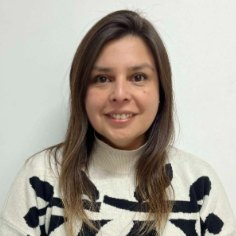
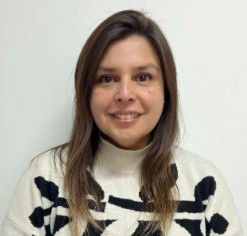
Muestra las fotos de docentes en tarjetas como el diseño original
Claude-Session: https://claude.ai/code/session_01AyQyfNN1zmFyMzNTQ2hEcM

diff --git a/index.html b/index.html
@@ -7,12 +7,12 @@
 <link rel="icon" href="img/huella.png">
 <title>Tu huella deja huella · Día del Profesor</title><style>
 *{box-sizing:border-box}body{margin:0;background:#f0f2f5;color:#171717;font-family:Arial,Helvetica,sans-serif;line-height:1.6}.reviewbar{padding:12px 22px;background:#fff3cd;color:#634900;text-align:center;font-size:13px;border-bottom:1px solid #ebdcaa}.shell{max-width:940px;margin:30px auto;background:white;box-shadow:0 12px 45px #17294310;border-radius:16px;overflow:hidden}.brand{background:#000;color:#fff;display:flex;justify-content:space-between;gap:15px;align-items:center;padding:23px 42px;border-bottom:1px solid #e9edf1;font-size:13px}.brand b{font-size:22px;letter-spacing:-1px}.brand b span{color:#FFB800}.brand div:last-child{text-align:right}.hero{background:#000000;padding:36px 42px 40px;color:white;position:relative}.eyebrow{font-size:11px;letter-spacing:1.7px;font-weight:700}.hero .eyebrow{color:#FFB800}.video{margin:20px 0 24px;background:#191919;aspect-ratio:16/9;border:1px solid #575757;border-radius:12px;display:flex;flex-direction:column;align-items:center;justify-content:center;text-align:center;padding:25px;background-image:radial-gradient(ellipse at 75% 20%,#ffffff0a,transparent 60%)}.play{font-size:26px;display:grid;place-items:center;width:72px;height:72px;border-radius:50%;background:#FFB800;color:#000000;padding-left:4px}.video h2{font-size:27px;margin:18px 0 4px}.video p{margin:0;color:#dddddd}.pending{display:inline-block;margin-top:22px;border:1px solid #777777;border-radius:30px;padding:5px 14px;font-size:12px;color:#eeeeee}.herotext{max-width:710px;font-size:18px;margin:0;color:#eeeeee}.thanks{padding:48px 42px;display:flex;gap:38px;align-items:center}.thanks img{width:142px;height:142px;object-fit:contain;flex-shrink:0}h1{font-size:42px;letter-spacing:-1.6px;line-height:1.1;margin:9px 0 22px}p{margin:0 0 16px}.thanks p:last-child{margin:0}.thanks .eyebrow{color:#755400}.section{padding:38px 42px 44px;background:#f7f8fa;border-top:1px solid #e9edf1}h2{font-size:29px;line-height:1.25;margin:9px 0 15px;letter-spacing:-.5px}.intro{max-width:680px;color:#525252}.categories{display:grid;gap:12px;margin-top:27px}.category{background:white;border:1px solid #dce3eb;border-radius:10px;overflow:hidden}.category summary{display:flex;align-items:flex-start;gap:19px;padding:24px;cursor:pointer;list-style:none}.category summary::-webkit-details-marker{display:none}.category summary:hover{background:#fffdf5}.category summary:focus-visible,summary:focus-visible,a:focus-visible{outline:3px solid #bf8600;outline-offset:-3px}.icon{font-size:26px;background:#f2f5f8;border-radius:10px;min-width:52px;height:52px;display:grid;place-items:center}.category .eyebrow{font-size:9px;color:#686868}h3{font-size:20px;line-height:1.3;margin:3px 0 7px}.description{display:block;color:#525252;font-size:14px}.link{display:inline-block;margin-top:12px;color:#171717;font-weight:700;font-size:13px}.story{padding:22px 25px;border-top:1px solid #e3e8ed;background:#fffcf0;font-size:14px}.story strong{color:#765500}.story p{margin:10px 0 0}.small{font-size:12px;color:#616161}.share{margin:38px 42px;padding:34px;background:#fff5d7;border-left:5px solid #FFB800;border-radius:6px}.share h2{margin-top:0}.cta{display:inline-block;background:#000000;color:white;padding:14px 21px;border-radius:5px;font-weight:700;text-decoration:none;margin:6px 0 9px}.formnote{margin-top:15px;font-size:13px}.formnote summary{cursor:pointer;font-weight:700}.formnote p{margin:10px 0 0}.closing{text-align:center;padding:15px 42px 38px}.closing h2{font-size:27px}.closing p{max-width:600px;margin:0 auto 14px;color:#525252}.closing strong{font-size:21px}footer{padding:22px;background:#000000;color:#eeeeee;text-align:center;font-size:12px}.review{max-width:940px;margin:0 auto 35px;padding:23px 30px;background:white;border:1px dashed #aebac6;border-radius:12px;font-size:14px}.review>summary{cursor:pointer;font-weight:700}.review h3{margin-top:25px;font-size:18px}.review li{margin:8px 0}.review blockquote{margin:14px 0;padding:20px;background:#f5f7fa;border-left:3px solid #FFB800}.review a{color:#171717}@media(max-width:620px){.shell{margin:12px;border-radius:10px}.brand{padding:18px 22px}.brand b{font-size:19px}.hero,.section{padding:27px 22px}.video h2{font-size:21px}.video p{font-size:13px}.video{aspect-ratio:4/3;padding:18px}.play{width:52px;height:52px;font-size:21px}.pending{margin-top:14px}.thanks{padding:32px 22px;gap:18px;align-items:flex-start}.thanks img{width:65px;height:65px;margin-top:9px}h1{font-size:32px}.thanks p{font-size:14px}h2{font-size:25px}.category summary{padding:19px 16px;gap:12px}.icon{min-width:40px;height:40px;font-size:22px}h3{font-size:18px}.share{margin:26px 22px;padding:24px}.closing{padding:8px 22px 30px}.review{margin:12px;padding:20px}.herotext{font-size:16px}}@media print{body{background:white}.shell{box-shadow:none;margin:0}.reviewbar{background:white}.category,.share,.video{break-inside:avoid}.review{break-before:page}}
-.duoc-logo{width:176px;height:auto;display:inline-block}.teacher-grid{display:grid;grid-template-columns:repeat(2,minmax(0,1fr));gap:18px;margin:20px 0}.teacher{background:#fff;border:1px solid #dedede;border-radius:8px;overflow:hidden}.photo{aspect-ratio:4/3;background:#eeeeee;display:flex;flex-direction:column;align-items:center;justify-content:center;gap:4px;color:#595959;border-bottom:4px solid #FFB800;font-size:13px}.photo>span:first-child{font-size:32px;font-weight:300}.teacher-info{padding:18px}.field-label{font-size:9px;letter-spacing:1.5px;color:#686868;font-weight:bold}.teacher h4{font-size:19px;line-height:1.25;margin:4px 0 15px}.teacher .career{font-size:14px;margin:4px 0 15px}.teacher .teacher-desc{font-size:13px;color:#555;margin:0}.story{background:#fafafa}.category[open] summary{border-left:4px solid #FFB800}.brand{border-bottom:4px solid #FFB800}.video{background-image:none}@media(max-width:620px){.teacher-grid{grid-template-columns:1fr}.duoc-logo{width:125px}.brand{font-size:11px}}.story-list{display:grid;gap:16px}.story-card{background:#fff;border:1px solid #dedede;border-left:4px solid #FFB800;border-radius:8px;padding:20px 22px}.story-card .field-label{display:block;line-height:1.5}.story-card h4{font-size:19px;line-height:1.3;margin:4px 0 14px}.people{display:flex;flex-wrap:wrap;gap:14px 18px;margin:0 0 14px}.person{margin:0;display:flex;align-items:center;gap:10px}.person img,.person .initials{width:56px;height:56px;border-radius:50%;object-fit:cover;border:2px solid #FFB800;flex-shrink:0}.person .initials{display:grid;place-items:center;background:#000;color:#FFB800;font-weight:700;font-size:16px;letter-spacing:.5px}.person figcaption{font-size:14px;font-weight:700;line-height:1.25;max-width:180px}.quote{position:relative;padding-left:16px;border-left:2px solid #eee}.quote p{margin:0 0 10px;font-size:15px;color:#333;font-style:italic}.quote p:last-child{margin:0}.achievements{margin:12px 0 0;font-size:14px;color:#444;background:#fff8e1;border-radius:6px;padding:10px 12px}@media(max-width:620px){.story-card{padding:16px}.person img,.person .initials{width:48px;height:48px}.quote p{font-size:14px}}</style></head><body>
+.duoc-logo{width:176px;height:auto;display:inline-block}.teacher-grid{display:grid;grid-template-columns:repeat(2,minmax(0,1fr));gap:18px;margin:20px 0}.teacher{background:#fff;border:1px solid #dedede;border-radius:8px;overflow:hidden}.photo{aspect-ratio:4/3;background:#eeeeee;display:flex;flex-direction:column;align-items:center;justify-content:center;gap:4px;color:#595959;border-bottom:4px solid #FFB800;font-size:13px}.photo>span:first-child{font-size:32px;font-weight:300}.teacher-info{padding:18px}.field-label{font-size:9px;letter-spacing:1.5px;color:#686868;font-weight:bold}.teacher h4{font-size:19px;line-height:1.25;margin:4px 0 15px}.teacher .career{font-size:14px;margin:4px 0 15px}.teacher .teacher-desc{font-size:13px;color:#555;margin:0}.story{background:#fafafa}.category[open] summary{border-left:4px solid #FFB800}.brand{border-bottom:4px solid #FFB800}.video{background-image:none}@media(max-width:620px){.teacher-grid{grid-template-columns:1fr}.duoc-logo{width:125px}.brand{font-size:11px}}.story-list{display:grid;gap:16px}.story-card{background:#fff;border:1px solid #dedede;border-left:4px solid #FFB800;border-radius:8px;padding:20px 22px}.story-card .field-label{display:block;line-height:1.5}.story-card h4{font-size:19px;line-height:1.3;margin:4px 0 14px}.people{display:flex;flex-wrap:wrap;gap:14px 18px;margin:0 0 14px}.person{margin:0;display:flex;align-items:center;gap:10px}.person img,.person .initials{width:56px;height:56px;border-radius:50%;object-fit:cover;border:2px solid #FFB800;flex-shrink:0}.person .initials{display:grid;place-items:center;background:#000;color:#FFB800;font-weight:700;font-size:16px;letter-spacing:.5px}.person figcaption{font-size:14px;font-weight:700;line-height:1.25;max-width:180px}.quote{position:relative;padding-left:16px;border-left:2px solid #eee}.quote p{margin:0 0 10px;font-size:15px;color:#333;font-style:italic}.quote p:last-child{margin:0}.achievements{margin:12px 0 0;font-size:14px;color:#444;background:#fff8e1;border-radius:6px;padding:10px 12px}@media(max-width:620px){.story-card{padding:16px}.person img,.person .initials{width:48px;height:48px}.quote p{font-size:14px}}.people-grid{margin:0 0 16px}.photo.has-img{padding:0;display:block;background:#eee}.photo.has-img img{width:100%;height:100%;object-fit:cover;object-position:center 20%;display:block}.people-grid .teacher-info h4{margin:4px 0 0}</style></head><body>
 <div class="reviewbar"><strong>MAQUETA PARA REVISIÓN DE JEFATURA</strong> · Video, historias y formulario pendientes de incorporación.</div>
 <main class="shell"><header class="brand"><div><img class="duoc-logo" src="img/logo-duoc.png" alt="Duoc UC"><br>Sede San Joaquín</div><div>Estación Docente<br><strong>16 de octubre de 2026</strong></div></header>
 <section class="hero" aria-labelledby="video-title"><div class="eyebrow">DÍA DEL PROFESOR 2026</div><div class="video" role="img" aria-label="Espacio reservado para el video de saludo del director de sede"><span class="play" aria-hidden="true">▶</span><h2 id="video-title">Un saludo para ti</h2><p>Mensaje del director de sede</p><span class="pending">Video por incorporar · vista de muestra</span></div><p class="herotext">Nuestro director de sede te saluda en el Día del Profesor y te invita a compartir las experiencias que dejan huella en nuestra comunidad.</p></section>
 <section class="thanks"><div><div class="eyebrow">HOY QUEREMOS CELEBRARTE</div><h1>Tu huella<br>deja huella</h1><p>Hoy queremos hacer una pausa para decirte algo muy simple: <strong>¡gracias!</strong></p><p>Gracias por cada clase, cada idea, cada conversación y por acompañar a tus estudiantes en su aprendizaje.</p><p>Enseñar es mucho más que compartir conocimientos: es acompañar, inspirar y dejar huella.</p></div><img src="img/huella.png" alt="" aria-hidden="true"></section>
-<section class="section"><div class="eyebrow">NUESTRA COMUNIDAD DOCENTE</div><h2>Historias que queremos destacar</h2><p class="intro">Hoy queremos reconocer a docentes que, desde distintos lugares y de distintas maneras, están dejando una huella especial en nuestra comunidad.</p><p class="small">Selecciona una categoría para conocer a sus docentes y sus experiencias.</p><div class="categories"><details class="category"><summary><span class="icon">💡</span><span><span class="eyebrow">HISTORIAS QUE DEJAN HUELLA · 01</span><h3>Buenas Prácticas Docentes</h3><span class="description">Nuevas maneras de enseñar, crear y ayudar a que nuestros estudiantes aprendan de forma significativa.</span><span class="link">Conocer historias <span aria-hidden="true">↗</span></span></span></summary><div class="story"><strong>Propuesta de docentes · selección por confirmar</strong><div class="teacher-grid"><article class="teacher"><div class="photo" role="img" aria-label="Espacio para fotografía de Gonzalo Valenzuela"><span aria-hidden="true">＋</span><span>Foto del docente</span></div><div class="teacher-info"><span class="field-label">NOMBRE</span><h4>Gonzalo Valenzuela</h4><span class="field-label">CARRERA</span><p class="career">Carrera por confirmar</p><p class="teacher-desc">Breve reseña de su experiencia o reconocimiento.</p></div></article><article class="teacher"><div class="photo" role="img" aria-label="Espacio para fotografía de Freddy Utreras"><span aria-hidden="true">＋</span><span>Foto del docente</span></div><div class="teacher-info"><span class="field-label">NOMBRE</span><h4>Freddy Utreras</h4><span class="field-label">CARRERA</span><p class="career">Carrera por confirmar</p><p class="teacher-desc">Breve reseña de su experiencia o reconocimiento.</p></div></article><article class="teacher"><div class="photo" role="img" aria-label="Espacio para fotografía de María José Salazar"><span aria-hidden="true">＋</span><span>Foto del docente</span></div><div class="teacher-info"><span class="field-label">NOMBRE</span><h4>María José Salazar</h4><span class="field-label">CARRERA</span><p class="career">Carrera por confirmar</p><p class="teacher-desc">Breve reseña de su experiencia o reconocimiento.</p></div></article><article class="teacher"><div class="photo" role="img" aria-label="Espacio para fotografía de M.ª Cristina Rodríguez"><span aria-hidden="true">＋</span><span>Foto del docente</span></div><div class="teacher-info"><span class="field-label">NOMBRE</span><h4>M.ª Cristina Rodríguez</h4><span class="field-label">CARRERA</span><p class="career">Carrera por confirmar</p><p class="teacher-desc">Breve reseña de su experiencia o reconocimiento.</p></div></article><article class="teacher"><div class="photo" role="img" aria-label="Espacio para fotografía de Apostol Dimitropolus"><span aria-hidden="true">＋</span><span>Foto del docente</span></div><div class="teacher-info"><span class="field-label">NOMBRE</span><h4>Apostol Dimitropolus</h4><span class="field-label">CARRERA</span><p class="career">Carrera por confirmar</p><p class="teacher-desc">Breve reseña de su experiencia o reconocimiento.</p></div></article><article class="teacher"><div class="photo" role="img" aria-label="Espacio para fotografía de Franco Sanguinetti"><span aria-hidden="true">＋</span><span>Foto del docente</span></div><div class="teacher-info"><span class="field-label">NOMBRE</span><h4>Franco Sanguinetti</h4><span class="field-label">CARRERA</span><p class="career">Carrera por confirmar</p><p class="teacher-desc">Breve reseña de su experiencia o reconocimiento.</p></div></article><article class="teacher"><div class="photo" role="img" aria-label="Espacio para fotografía de Valeska Gonzalez"><span aria-hidden="true">＋</span><span>Foto del docente</span></div><div class="teacher-info"><span class="field-label">NOMBRE</span><h4>Valeska Gonzalez</h4><span class="field-label">CARRERA</span><p class="career">Carrera por confirmar</p><p class="teacher-desc">Breve reseña de su experiencia o reconocimiento.</p></div></article></div><p class="small">El listado original también menciona «Docentes destacados UADD», sin identificar nombres adicionales.</p><p class="small">Fotografías, nombres, carreras y reseñas sujetos a validación antes de publicar.</p></div></details><details class="category"><summary><span class="icon">🎓</span><span><span class="eyebrow">HISTORIAS QUE DEJAN HUELLA · 02</span><h3>Becados</h3><span class="description">Docentes que siguen aprendiendo y fortaleciendo sus conocimientos a través de becas de estudio.</span><span class="link">Conocer historias <span aria-hidden="true">↗</span></span></span></summary><div class="story"><div class="story-list"><article class="story-card"><span class="field-label">BECA FAD 2026</span><h4>Adjudicación de la Beca de Formación Académica Disciplinar (FAD) 2026</h4><div class="people"><figure class="person"><img src="img/docentes/nancy-bautista.jpg" alt="Fotografía de Nancy Bautista" loading="lazy"><figcaption>Nancy Bautista</figcaption></figure><figure class="person"><img src="img/docentes/jocelin-jofre.jpg" alt="Fotografía de Jocelin Andrea Jofre Seguel" loading="lazy"><figcaption>Jocelin Andrea Jofre Seguel</figcaption></figure></div><div class="quote"><p>Nos adjudicamos la Beca de Formación Académica Disciplinar (FAD) 2026, un reconocimiento otorgado en el marco de la Beca FAD 2026 de Duoc UC, que busca fortalecer la formación continua y la especialización disciplinar de sus docentes. Esta beca nos permitirá profundizar conocimientos y aplicar los aprendizajes en nuestra práctica docente.</p></div></article></div></div></details><details class="category"><summary><span class="icon">🔬</span><span><span class="eyebrow">HISTORIAS QUE DEJAN HUELLA · 03</span><h3>Investigación Aplicada</h3><span class="description">Preguntas e ideas que se convierten en conocimiento y soluciones para nuestra comunidad.</span><span class="link">Conocer historias <span aria-hidden="true">↗</span></span></span></summary><div class="story"><div class="story-list"><article class="story-card"><span class="field-label">PROYECTO DE INVESTIGACIÓN APLICADA</span><h4>“Con tu voz”</h4><div class="people"><figure class="person"><img src="img/docentes/carla-navia.jpg" alt="Fotografía de Carla Navia" loading="lazy"><figcaption>Carla Navia</figcaption></figure><figure class="person"><img src="img/docentes/iris-navarrete.jpg" alt="Fotografía de Iris Navarrete" loading="lazy"><figcaption>Iris Navarrete</figcaption></figure></div><div class="quote"><p>Nuestro proyecto, “Con tu voz”, desarrolla una plataforma web inclusiva para apoyar la vocalización y comunicación de niñas y niños sordos, integrando tecnología, recursos visuales y Lengua de Señas Chilena (LSCh).</p></div><p class="achievements"><strong>Nuestros logros:</strong> nos adjudicamos fondos de DIAIT 2025 y 2026 en Desarrollo Experimental y Escalamiento, y obtuvimos el primer lugar en Póster Mejor Evaluado del Congreso de Investigación I2T Duoc UC 2026.</p></article><article class="story-card"><span class="field-label">PROYECTO DE INNOVACIÓN CORPORATIVA</span><h4>“Networking Inicial”</h4><div class="people"><figure class="person"><img src="img/docentes/elizabeth-valenzuela.jpg" alt="Fotografía de Elizabeth Valenzuela" loading="lazy"><figcaption>Elizabeth Valenzuela</figcaption></figure><figure class="person"><img src="img/docentes/nancy-bautista.jpg" alt="Fotografía de Nancy Bautista" loading="lazy"><figcaption>Nancy Bautista</figcaption></figure></div><div class="quote"><p>Nuestro proyecto, “Networking Inicial”, busca acercar a estudiantes de primer y segundo año al mundo laboral de su carrera, a través de un desafío que les permita vivir durante un día una experiencia en una empresa, conocer su entorno laboral y proyectarse en su futuro profesional.</p></div></article><article class="story-card"><span class="field-label">PROYECTO DE INNOVACIÓN CORPORATIVA</span><h4>Cron App</h4><div class="people"><figure class="person"><span class="initials" aria-hidden="true">MT</span><figcaption>Melisa Tapia</figcaption></figure><figure class="person"><span class="initials" aria-hidden="true">CO</span><figcaption>Claudia Orellana</figcaption></figure><figure class="person"><span class="initials" aria-hidden="true">GV</span><figcaption>Guillermo Villacura</figcaption></figure></div><div class="quote"><p>Nuestro proyecto es Cron App, una plataforma tecnológica orientada al apoyo del seguimiento y gestión de personas con enfermedades crónicas, principalmente Diabetes Mellitus tipo 2 e Hipertensión Arterial.</p></div></article><article class="story-card"><span class="field-label">PROYECTO DE INNOVACIÓN CORPORATIVA</span><h4>SegurApp</h4><div class="people"><figure class="person"><span class="initials" aria-hidden="true">GV</span><figcaption>Guillermo Villacura T.</figcaption></figure></div><div class="quote"><p>Mi proyecto es SegurApp, una plataforma tecnológica orientada a fortalecer la seguridad en la comuna de San Joaquín, donde los vecinos cumplen un rol central al reportar los incidentes que ocurren en la comuna. A su vez, los inspectores municipales son los encargados de atender cada uno de los incidentes reportados por la comunidad.</p></div></article></div></div></details><details class="category"><summary><span class="icon">🌎</span><span><span class="eyebrow">HISTORIAS QUE DEJAN HUELLA · 04</span><h3>Vinculación y Experiencia Profesional</h3><span class="description">Experiencias que conectan el aprendizaje con la industria y el mundo laboral.</span><span class="link">Conocer historias <span aria-hidden="true">↗</span></span></span></summary><div class="story"><strong>Propuesta de docentes · selección por confirmar</strong><div class="teacher-grid"><article class="teacher"><div class="photo" role="img" aria-label="Espacio para fotografía de Nombre del docente"><span aria-hidden="true">＋</span><span>Foto del docente</span></div><div class="teacher-info"><span class="field-label">NOMBRE</span><h4>Nombre del docente</h4><span class="field-label">CARRERA</span><p class="career">Carrera por confirmar</p><p class="teacher-desc">Breve reseña de su experiencia o reconocimiento.</p></div></article></div><p class="small">Fotografías, nombres, carreras y reseñas sujetos a validación antes de publicar.</p></div></details><details class="category"><summary><span class="icon">⭐</span><span><span class="eyebrow">HISTORIAS QUE DEJAN HUELLA · 05</span><h3>Reconocimiento externo</h3><span class="description">Un trabajo docente que también recibe reconocimiento fuera de nuestra institución.</span><span class="link">Conocer historias <span aria-hidden="true">↗</span></span></span></summary><div class="story"><div class="story-list"><article class="story-card"><span class="field-label">RECONOCIMIENTO EXTERNO</span><h4>Incorporación como miembro honorario de Sigma Nursing</h4><div class="people"><figure class="person"><span class="initials" aria-hidden="true">CM</span><figcaption>Claudia Marcela Escobar Osorio</figcaption></figure></div><div class="quote"><p>Fui incorporada como miembro honorario de Sigma Nursing. Recibí este reconocimiento, otorgado por el Capítulo Chileno Alpha Beta Omicron de Sigma Nursing, con sede en la Pontificia Universidad Católica de Chile, por mi trayectoria académica y profesional, y mi compromiso con la excelencia, el liderazgo y el desarrollo de la enfermería.</p></div></article><article class="story-card"><span class="field-label">PARTICIPACIÓN EN EVENTOS ACADÉMICOS</span><h4>Participación en el XXII Congreso Chileno de Neumología Pediátrica</h4><div class="people"><figure class="person"><img src="img/docentes/ana-lorena-moya.jpg" alt="Fotografía de Ana Lorena Moya Isamitt" loading="lazy"><figcaption>Ana Lorena Moya Isamitt</figcaption></figure></div><div class="quote"><p>Como docente y enfermera, participaré en el XXII Congreso Chileno de Neumología Pediátrica, que se realizará del 22 al 24 de octubre de 2026. En esta instancia presentaré el trabajo “Preparémonos juntos para respirar mejor”, aceptado en modalidad e-póster, contribuyendo al intercambio de conocimientos y experiencias en el ámbito de la salud respiratoria pediátrica.</p></div></article></div></div></details></div></section>
+<section class="section"><div class="eyebrow">NUESTRA COMUNIDAD DOCENTE</div><h2>Historias que queremos destacar</h2><p class="intro">Hoy queremos reconocer a docentes que, desde distintos lugares y de distintas maneras, están dejando una huella especial en nuestra comunidad.</p><p class="small">Selecciona una categoría para conocer a sus docentes y sus experiencias.</p><div class="categories"><details class="category"><summary><span class="icon">💡</span><span><span class="eyebrow">HISTORIAS QUE DEJAN HUELLA · 01</span><h3>Buenas Prácticas Docentes</h3><span class="description">Nuevas maneras de enseñar, crear y ayudar a que nuestros estudiantes aprendan de forma significativa.</span><span class="link">Conocer historias <span aria-hidden="true">↗</span></span></span></summary><div class="story"><strong>Propuesta de docentes · selección por confirmar</strong><div class="teacher-grid"><article class="teacher"><div class="photo" role="img" aria-label="Espacio para fotografía de Gonzalo Valenzuela"><span aria-hidden="true">＋</span><span>Foto del docente</span></div><div class="teacher-info"><span class="field-label">NOMBRE</span><h4>Gonzalo Valenzuela</h4><span class="field-label">CARRERA</span><p class="career">Carrera por confirmar</p><p class="teacher-desc">Breve reseña de su experiencia o reconocimiento.</p></div></article><article class="teacher"><div class="photo" role="img" aria-label="Espacio para fotografía de Freddy Utreras"><span aria-hidden="true">＋</span><span>Foto del docente</span></div><div class="teacher-info"><span class="field-label">NOMBRE</span><h4>Freddy Utreras</h4><span class="field-label">CARRERA</span><p class="career">Carrera por confirmar</p><p class="teacher-desc">Breve reseña de su experiencia o reconocimiento.</p></div></article><article class="teacher"><div class="photo" role="img" aria-label="Espacio para fotografía de María José Salazar"><span aria-hidden="true">＋</span><span>Foto del docente</span></div><div class="teacher-info"><span class="field-label">NOMBRE</span><h4>María José Salazar</h4><span class="field-label">CARRERA</span><p class="career">Carrera por confirmar</p><p class="teacher-desc">Breve reseña de su experiencia o reconocimiento.</p></div></article><article class="teacher"><div class="photo" role="img" aria-label="Espacio para fotografía de M.ª Cristina Rodríguez"><span aria-hidden="true">＋</span><span>Foto del docente</span></div><div class="teacher-info"><span class="field-label">NOMBRE</span><h4>M.ª Cristina Rodríguez</h4><span class="field-label">CARRERA</span><p class="career">Carrera por confirmar</p><p class="teacher-desc">Breve reseña de su experiencia o reconocimiento.</p></div></article><article class="teacher"><div class="photo" role="img" aria-label="Espacio para fotografía de Apostol Dimitropolus"><span aria-hidden="true">＋</span><span>Foto del docente</span></div><div class="teacher-info"><span class="field-label">NOMBRE</span><h4>Apostol Dimitropolus</h4><span class="field-label">CARRERA</span><p class="career">Carrera por confirmar</p><p class="teacher-desc">Breve reseña de su experiencia o reconocimiento.</p></div></article><article class="teacher"><div class="photo" role="img" aria-label="Espacio para fotografía de Franco Sanguinetti"><span aria-hidden="true">＋</span><span>Foto del docente</span></div><div class="teacher-info"><span class="field-label">NOMBRE</span><h4>Franco Sanguinetti</h4><span class="field-label">CARRERA</span><p class="career">Carrera por confirmar</p><p class="teacher-desc">Breve reseña de su experiencia o reconocimiento.</p></div></article><article class="teacher"><div class="photo" role="img" aria-label="Espacio para fotografía de Valeska Gonzalez"><span aria-hidden="true">＋</span><span>Foto del docente</span></div><div class="teacher-info"><span class="field-label">NOMBRE</span><h4>Valeska Gonzalez</h4><span class="field-label">CARRERA</span><p class="career">Carrera por confirmar</p><p class="teacher-desc">Breve reseña de su experiencia o reconocimiento.</p></div></article></div><p class="small">El listado original también menciona «Docentes destacados UADD», sin identificar nombres adicionales.</p><p class="small">Fotografías, nombres, carreras y reseñas sujetos a validación antes de publicar.</p></div></details><details class="category"><summary><span class="icon">🎓</span><span><span class="eyebrow">HISTORIAS QUE DEJAN HUELLA · 02</span><h3>Becados</h3><span class="description">Docentes que siguen aprendiendo y fortaleciendo sus conocimientos a través de becas de estudio.</span><span class="link">Conocer historias <span aria-hidden="true">↗</span></span></span></summary><div class="story"><div class="story-list"><article class="story-card"><span class="field-label">BECA FAD 2026</span><h4>Adjudicación de la Beca de Formación Académica Disciplinar (FAD) 2026</h4><div class="teacher-grid people-grid"><article class="teacher"><div class="photo has-img"><img src="img/docentes/nancy-bautista.jpg" alt="Fotografía de Nancy Bautista" loading="lazy"></div><div class="teacher-info"><span class="field-label">NOMBRE</span><h4>Nancy Bautista</h4></div></article><article class="teacher"><div class="photo has-img"><img src="img/docentes/jocelin-jofre.jpg" alt="Fotografía de Jocelin Andrea Jofre Seguel" loading="lazy"></div><div class="teacher-info"><span class="field-label">NOMBRE</span><h4>Jocelin Andrea Jofre Seguel</h4></div></article></div><div class="quote"><p>Nos adjudicamos la Beca de Formación Académica Disciplinar (FAD) 2026, un reconocimiento otorgado en el marco de la Beca FAD 2026 de Duoc UC, que busca fortalecer la formación continua y la especialización disciplinar de sus docentes. Esta beca nos permitirá profundizar conocimientos y aplicar los aprendizajes en nuestra práctica docente.</p></div></article></div></div></details><details class="category"><summary><span class="icon">🔬</span><span><span class="eyebrow">HISTORIAS QUE DEJAN HUELLA · 03</span><h3>Investigación Aplicada</h3><span class="description">Preguntas e ideas que se convierten en conocimiento y soluciones para nuestra comunidad.</span><span class="link">Conocer historias <span aria-hidden="true">↗</span></span></span></summary><div class="story"><div class="story-list"><article class="story-card"><span class="field-label">PROYECTO DE INVESTIGACIÓN APLICADA</span><h4>“Con tu voz”</h4><div class="teacher-grid people-grid"><article class="teacher"><div class="photo has-img"><img src="img/docentes/carla-navia.jpg" alt="Fotografía de Carla Navia" loading="lazy"></div><div class="teacher-info"><span class="field-label">NOMBRE</span><h4>Carla Navia</h4></div></article><article class="teacher"><div class="photo has-img"><img src="img/docentes/iris-navarrete.jpg" alt="Fotografía de Iris Navarrete" loading="lazy"></div><div class="teacher-info"><span class="field-label">NOMBRE</span><h4>Iris Navarrete</h4></div></article></div><div class="quote"><p>Nuestro proyecto, “Con tu voz”, desarrolla una plataforma web inclusiva para apoyar la vocalización y comunicación de niñas y niños sordos, integrando tecnología, recursos visuales y Lengua de Señas Chilena (LSCh).</p></div><p class="achievements"><strong>Nuestros logros:</strong> nos adjudicamos fondos de DIAIT 2025 y 2026 en Desarrollo Experimental y Escalamiento, y obtuvimos el primer lugar en Póster Mejor Evaluado del Congreso de Investigación I2T Duoc UC 2026.</p></article><article class="story-card"><span class="field-label">PROYECTO DE INNOVACIÓN CORPORATIVA</span><h4>“Networking Inicial”</h4><div class="teacher-grid people-grid"><article class="teacher"><div class="photo has-img"><img src="img/docentes/elizabeth-valenzuela.jpg" alt="Fotografía de Elizabeth Valenzuela" loading="lazy"></div><div class="teacher-info"><span class="field-label">NOMBRE</span><h4>Elizabeth Valenzuela</h4></div></article><article class="teacher"><div class="photo has-img"><img src="img/docentes/nancy-bautista.jpg" alt="Fotografía de Nancy Bautista" loading="lazy"></div><div class="teacher-info"><span class="field-label">NOMBRE</span><h4>Nancy Bautista</h4></div></article></div><div class="quote"><p>Nuestro proyecto, “Networking Inicial”, busca acercar a estudiantes de primer y segundo año al mundo laboral de su carrera, a través de un desafío que les permita vivir durante un día una experiencia en una empresa, conocer su entorno laboral y proyectarse en su futuro profesional.</p></div></article><article class="story-card"><span class="field-label">PROYECTO DE INNOVACIÓN CORPORATIVA</span><h4>Cron App</h4><div class="teacher-grid people-grid"><article class="teacher"><div class="photo" role="img" aria-label="Espacio para fotografía de Melisa Tapia"><span aria-hidden="true">＋</span><span>Foto del docente</span></div><div class="teacher-info"><span class="field-label">NOMBRE</span><h4>Melisa Tapia</h4></div></article><article class="teacher"><div class="photo" role="img" aria-label="Espacio para fotografía de Claudia Orellana"><span aria-hidden="true">＋</span><span>Foto del docente</span></div><div class="teacher-info"><span class="field-label">NOMBRE</span><h4>Claudia Orellana</h4></div></article><article class="teacher"><div class="photo" role="img" aria-label="Espacio para fotografía de Guillermo Villacura"><span aria-hidden="true">＋</span><span>Foto del docente</span></div><div class="teacher-info"><span class="field-label">NOMBRE</span><h4>Guillermo Villacura</h4></div></article></div><div class="quote"><p>Nuestro proyecto es Cron App, una plataforma tecnológica orientada al apoyo del seguimiento y gestión de personas con enfermedades crónicas, principalmente Diabetes Mellitus tipo 2 e Hipertensión Arterial.</p></div></article><article class="story-card"><span class="field-label">PROYECTO DE INNOVACIÓN CORPORATIVA</span><h4>SegurApp</h4><div class="teacher-grid people-grid"><article class="teacher"><div class="photo" role="img" aria-label="Espacio para fotografía de Guillermo Villacura T."><span aria-hidden="true">＋</span><span>Foto del docente</span></div><div class="teacher-info"><span class="field-label">NOMBRE</span><h4>Guillermo Villacura T.</h4></div></article></div><div class="quote"><p>Mi proyecto es SegurApp, una plataforma tecnológica orientada a fortalecer la seguridad en la comuna de San Joaquín, donde los vecinos cumplen un rol central al reportar los incidentes que ocurren en la comuna. A su vez, los inspectores municipales son los encargados de atender cada uno de los incidentes reportados por la comunidad.</p></div></article></div></div></details><details class="category"><summary><span class="icon">🌎</span><span><span class="eyebrow">HISTORIAS QUE DEJAN HUELLA · 04</span><h3>Vinculación y Experiencia Profesional</h3><span class="description">Experiencias que conectan el aprendizaje con la industria y el mundo laboral.</span><span class="link">Conocer historias <span aria-hidden="true">↗</span></span></span></summary><div class="story"><strong>Propuesta de docentes · selección por confirmar</strong><div class="teacher-grid"><article class="teacher"><div class="photo" role="img" aria-label="Espacio para fotografía de Nombre del docente"><span aria-hidden="true">＋</span><span>Foto del docente</span></div><div class="teacher-info"><span class="field-label">NOMBRE</span><h4>Nombre del docente</h4><span class="field-label">CARRERA</span><p class="career">Carrera por confirmar</p><p class="teacher-desc">Breve reseña de su experiencia o reconocimiento.</p></div></article></div><p class="small">Fotografías, nombres, carreras y reseñas sujetos a validación antes de publicar.</p></div></details><details class="category"><summary><span class="icon">⭐</span><span><span class="eyebrow">HISTORIAS QUE DEJAN HUELLA · 05</span><h3>Reconocimiento externo</h3><span class="description">Un trabajo docente que también recibe reconocimiento fuera de nuestra institución.</span><span class="link">Conocer historias <span aria-hidden="true">↗</span></span></span></summary><div class="story"><div class="story-list"><article class="story-card"><span class="field-label">RECONOCIMIENTO EXTERNO</span><h4>Incorporación como miembro honorario de Sigma Nursing</h4><div class="teacher-grid people-grid"><article class="teacher"><div class="photo" role="img" aria-label="Espacio para fotografía de Claudia Marcela Escobar Osorio"><span aria-hidden="true">＋</span><span>Foto del docente</span></div><div class="teacher-info"><span class="field-label">NOMBRE</span><h4>Claudia Marcela Escobar Osorio</h4></div></article></div><div class="quote"><p>Fui incorporada como miembro honorario de Sigma Nursing. Recibí este reconocimiento, otorgado por el Capítulo Chileno Alpha Beta Omicron de Sigma Nursing, con sede en la Pontificia Universidad Católica de Chile, por mi trayectoria académica y profesional, y mi compromiso con la excelencia, el liderazgo y el desarrollo de la enfermería.</p></div></article><article class="story-card"><span class="field-label">PARTICIPACIÓN EN EVENTOS ACADÉMICOS</span><h4>Participación en el XXII Congreso Chileno de Neumología Pediátrica</h4><div class="teacher-grid people-grid"><article class="teacher"><div class="photo has-img"><img src="img/docentes/ana-lorena-moya.jpg" alt="Fotografía de Ana Lorena Moya Isamitt" loading="lazy"></div><div class="teacher-info"><span class="field-label">NOMBRE</span><h4>Ana Lorena Moya Isamitt</h4></div></article></div><div class="quote"><p>Como docente y enfermera, participaré en el XXII Congreso Chileno de Neumología Pediátrica, que se realizará del 22 al 24 de octubre de 2026. En esta instancia presentaré el trabajo “Preparémonos juntos para respirar mejor”, aceptado en modalidad e-póster, contribuyendo al intercambio de conocimientos y experiencias en el ámbito de la salud respiratoria pediátrica.</p></div></article></div></div></details></div></section>
 <section class="share"><h2>Queremos conocer tu historia</h2><p>Todos tenemos algo que compartir. Si has desarrollado una experiencia, iniciativa o buena práctica que pueda inspirar a otros docentes, cuéntanosla y sé parte de las próximas historias que dejan huella.</p><a class="cta" href="#formulario-pendiente">Quiero compartir mi experiencia ↗</a><details class="formnote" id="formulario-pendiente"><summary>Formulario por incorporar</summary><p>En la versión final, el botón abrirá el formulario de Google para enviar tu experiencia. Esta maqueta no recopila respuestas.</p></details></section>
 <section class="closing"><h2>Gracias por dejar huella 💛</h2><p>Gracias por enseñar, acompañar, compartir y seguir aprendiendo. Gracias por ser parte de esta comunidad y por dejar tu huella en ella.</p><strong>¡Feliz Día del Profesor!</strong></section><footer>Estación Docente San Joaquín · Duoc UC</footer></main>
 <details class="review"><summary>Notas para presentar la propuesta a jefatura</summary><h3>Cómo se organiza el anuncio</h3><p>El video abre el contenido: el director saluda, agradece e invita a compartir experiencias. Luego se presenta el concepto «Tu huella deja huella», el agradecimiento, las cinco categorías, el formulario y el cierre.</p><p>Se excluyó íntegramente la diapositiva 5: no se incluye su bloque ni el enlace intermedio «Conoce las historias que dejan huella». Las categorías de la diapositiva 6 aparecen directamente en el anuncio.</p><h3>Lectura de la propuesta</h3><p>El concepto une reconocimiento y participación. El video aporta una voz cercana desde la dirección; las historias hacen concreto el agradecimiento, y el formulario abre espacio para futuras experiencias. Se corrigió «Tú huella» a «Tu huella».</p><h3>Guion sugerido para el director · 45 a 60 segundos</h3><blockquote>Queridas y queridos docentes de la sede San Joaquín: en este Día del Profesor quiero agradecerles por el compromiso y la dedicación con que acompañan a nuestros estudiantes. Detrás de cada clase y de cada aprendizaje está el aporte de ustedes, que deja una huella en nuestra comunidad.<br><br>Hoy los invito a conocer las historias que destacamos y también a compartir las suyas. Si tienen una experiencia, una iniciativa o una buena práctica que pueda inspirar a otros, cuéntennosla a través del formulario de este anuncio.<br><br>Gracias por enseñar, por acompañar y por seguir aprendiendo. ¡Feliz Día del Profesor!</blockquote><h3>Pendientes antes de publicar</h3><ul><li>Grabar el video, incorporar subtítulos y definir su enlace o archivo definitivo.</li><li>Validar los candidatos de la diapositiva 8 y la escritura de sus nombres. Completar la categoría de Vinculación y Experiencia Profesional y precisar el reconocimiento externo de Claudia Escobar.</li><li>Recopilar fotografías autorizadas, validar el nombre y la carrera, y agregar una reseña breve de cada docente seleccionado.</li><li>Crear el formulario de Google e incorporar su enlace al botón.</li><li>Retirar las etiquetas de maqueta y estas notas. Probar la inserción en el AVA institucional, en computador y celular, antes de difundir. Esta versión aún no ha sido probada dentro de AVA.</li></ul><h3>Difusión propuesta</h3><p><strong>Asunto:</strong> Tu huella deja huella: ¡feliz Día del Profesor!</p><p><strong>Texto breve de envío:</strong> Hoy queremos agradecerte por la huella que dejas en nuestra comunidad. Te invitamos a ver el saludo de nuestro director, conocer las historias de nuestros docentes y compartir tu experiencia en Estación Docente San Joaquín.</p><p>El mensaje de difusión llevará al anuncio en AVA mediante su enlace definitivo.</p></details></body></html>
